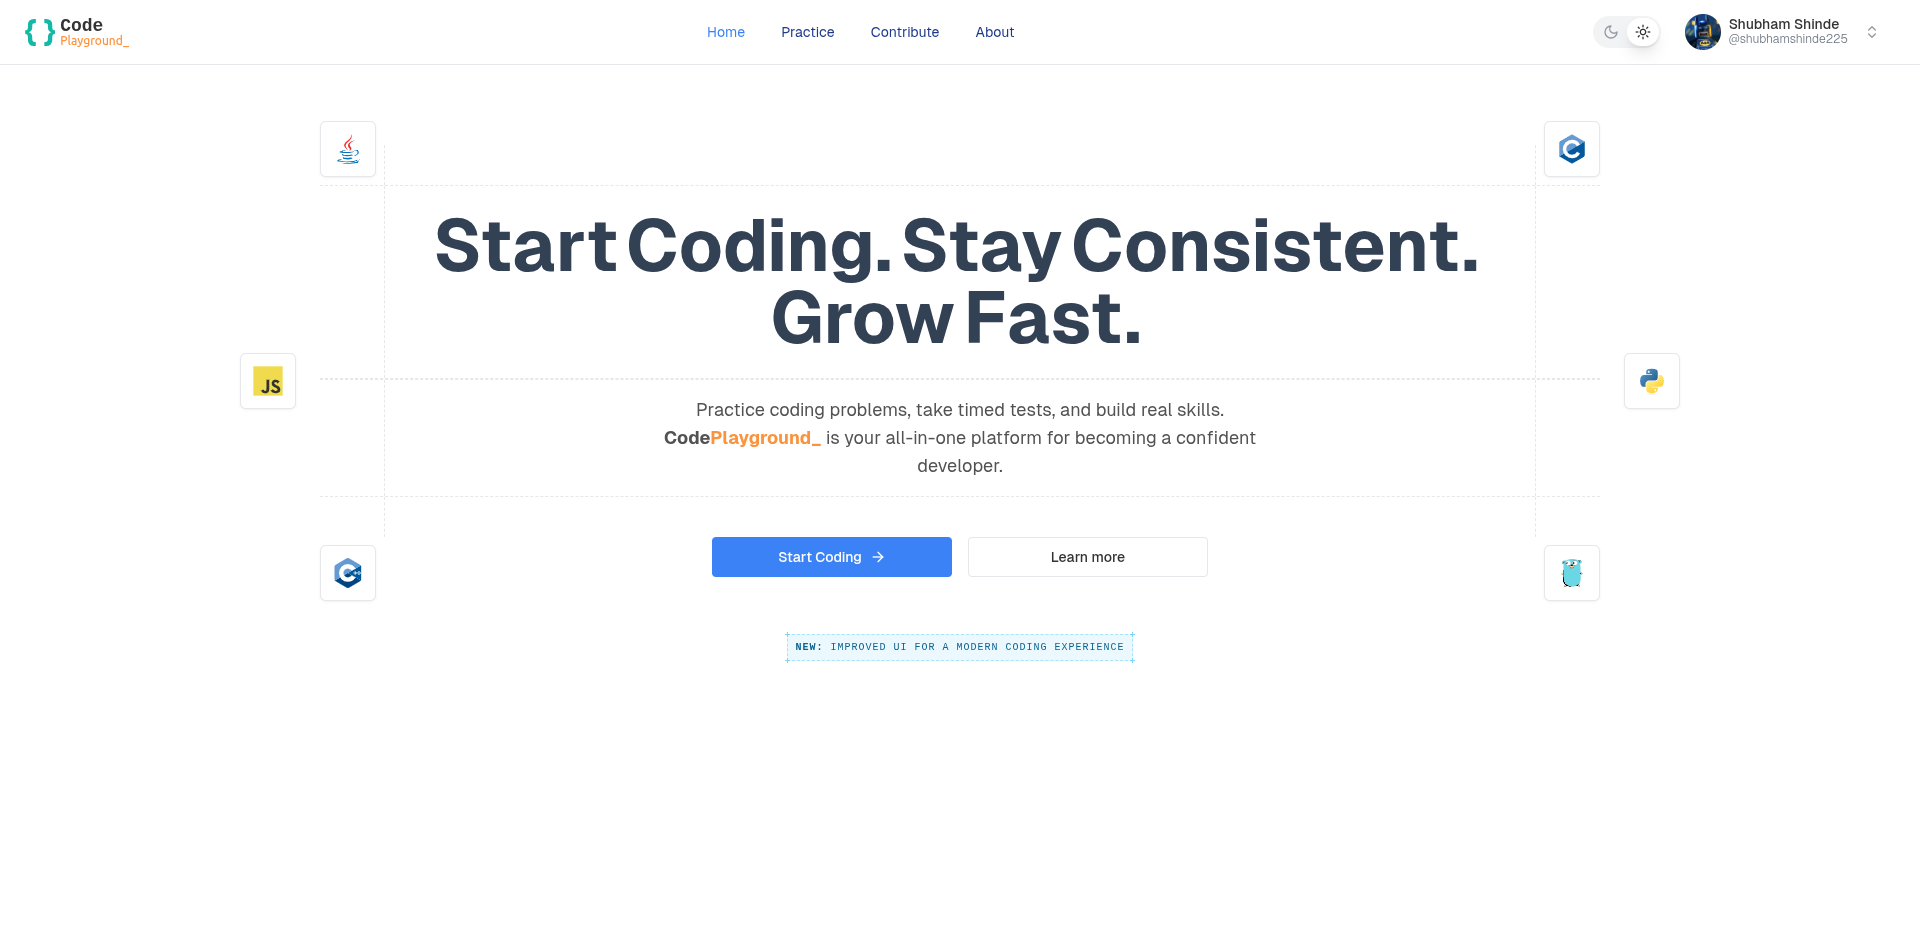
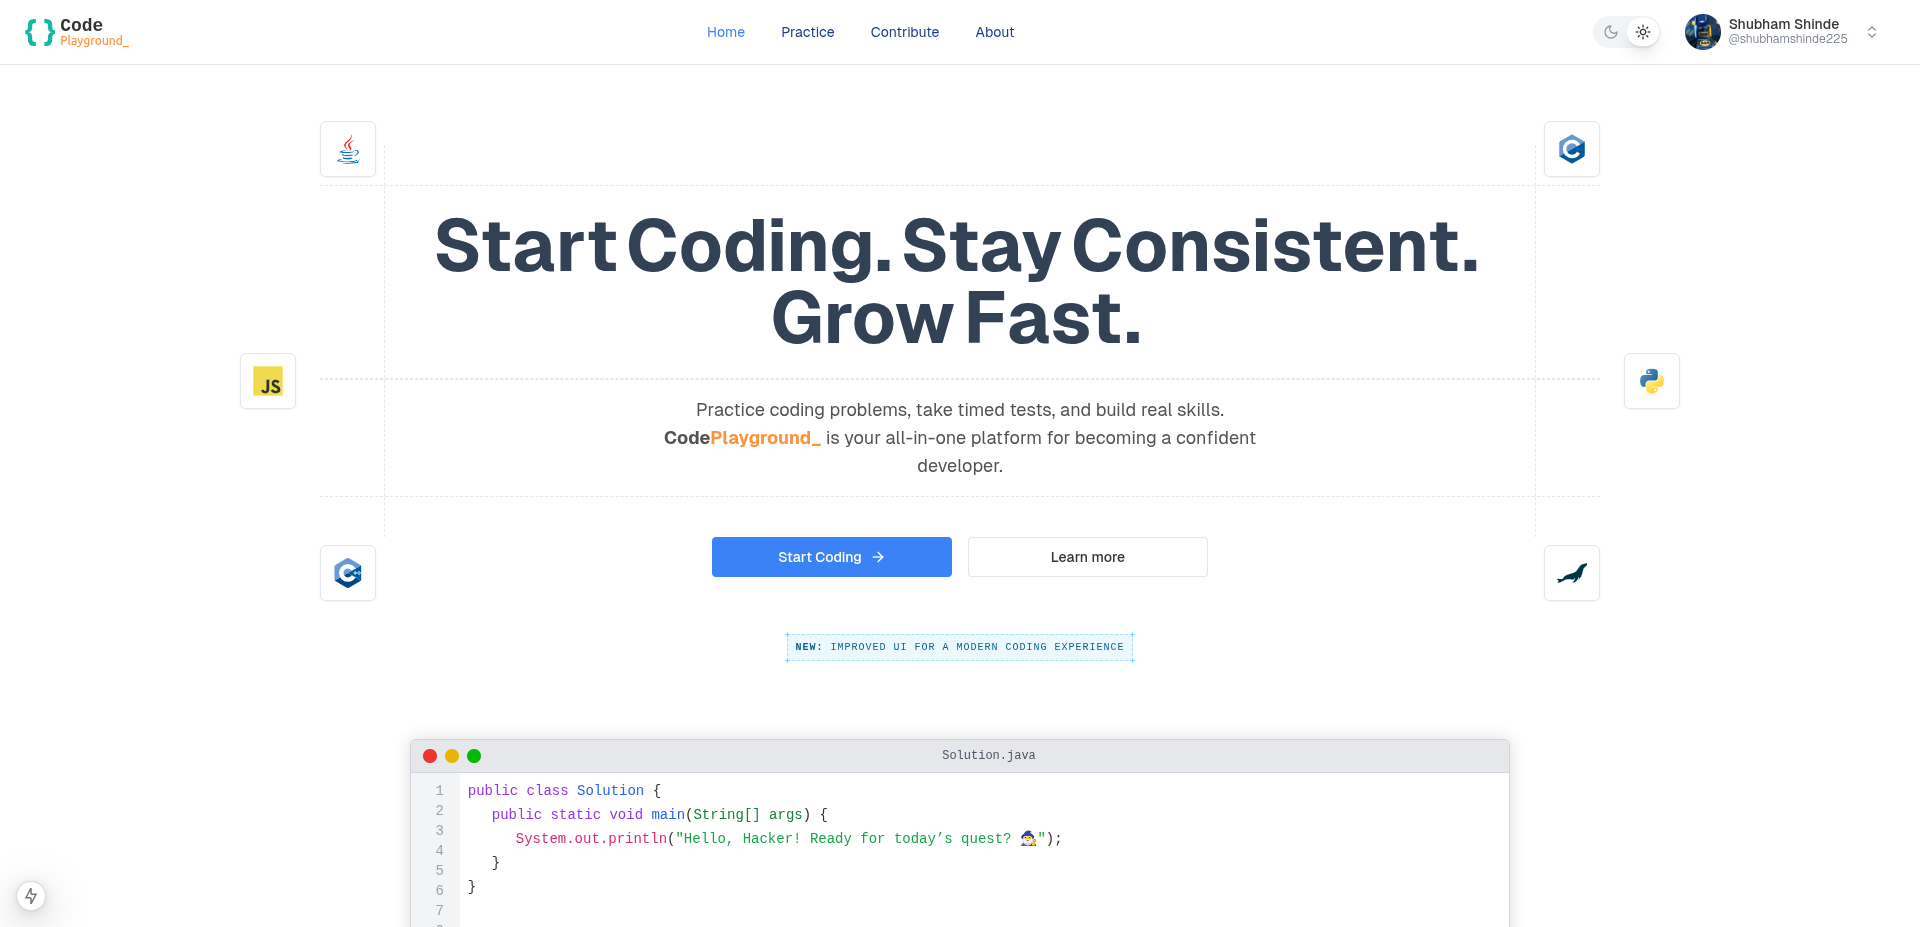
Minor hero page changes

Changed region(s): [[0.1875, 0.7853, 0.8125, 0.9061], [0.8125, 0.6041, 0.8438, 0.6343]]

diff --git a/src/components/animation-effects/editor-card.tsx b/src/components/animation-effects/editor-card.tsx
@@ -1,0 +1,54 @@
+"use client";
+
+export default function EditorCard() {
+  return (
+    <div
+      className="w-full max-w-[1100px] h-[300px] 
+      bg-white dark:bg-[#1e1e1e] 
+      border border-gray-300 dark:border-gray-700 
+      rounded-lg overflow-hidden m-5 
+      shadow-[0_0_15px_rgba(0,0,0,0.15)] dark:shadow-[0_0_20px_rgba(0,0,0,0.5)] 
+      font-mono text-sm"
+    >
+      {/* Header with traffic light controls */}
+      <div className="flex items-center justify-between bg-gray-200 dark:bg-[#2d2d2d] px-3 py-2 border-b border-gray-300 dark:border-gray-700">
+        <div className="flex gap-2">
+          <div className="w-3.5 h-3.5 rounded-full bg-[#e33] hover:brightness-125 cursor-pointer" />
+          <div className="w-3.5 h-3.5 rounded-full dark:bg-[#ee0] bg-yellow-500 hover:brightness-125 cursor-pointer" />
+          <div className="w-3.5 h-3.5 rounded-full bg-[#0b0] hover:brightness-125 cursor-pointer" />
+        </div>
+        <p className="text-xs text-gray-600 dark:text-gray-300">Solution.java</p>
+        <div />
+      </div>
+
+      {/* Code editor content */}
+      <div className="flex h-full">
+        {/* Line numbers */}
+        <div className="bg-gray-100 dark:bg-[#1b1b1b] text-gray-400 dark:text-gray-500 px-4 py-2 text-right select-none">
+          {Array.from({ length: 10 }, (_, i) => (
+            <p key={i}>{i + 1}</p>
+          ))}
+        </div>
+
+        {/* Java code */}
+        <div className="p-2 text-left space-y-1 overflow-auto">
+          <p>
+            <span className="text-purple-600 dark:text-purple-400">public class</span>{" "}
+            <span className="text-blue-600 dark:text-blue-400">Solution</span> {"{"}
+          </p>
+          <p className="ml-6">
+            <span className="text-purple-600 dark:text-purple-400">public static void</span>{" "}
+            <span className="text-blue-600 dark:text-blue-400">main</span>(
+            <span className="text-green-700 dark:text-green-400">String[] args</span>) {"{"}
+          </p>
+          <p className="ml-12">
+            <span className="text-pink-600 dark:text-pink-400">System.out.println</span>(
+            <span className="text-green-600 dark:text-green-400">&quot;Hello, Hacker! Ready for today’s quest? 🧙♂&quot;</span>);
+          </p>
+          <p className="ml-6">{"}"}</p>
+          <p>{"}"}</p>
+        </div>
+      </div>
+    </div>
+  );
+}

diff --git a/src/app/(root)/page.tsx b/src/app/(root)/page.tsx
@@ -15,6 +15,7 @@ import {
 import { Card } from "@/components/ui/card";
 import BorderBox from "@/components/border-box";
 import TerminalCard from "@/components/animation-effects/terminal-card";
+import EditorCard from "@/components/animation-effects/editor-card";
 
 export default function Home() {
   return (
@@ -154,9 +155,14 @@ export default function Home() {
         </motion.div>
       </div>
 
-      <div className="flex justify-center mt-1.5 p-0 h-52 overflow-clip">
-        <TerminalCard />
-      </div>
+      <motion.div
+        initial={{ opacity: 0, scale: 0.95 }}
+        animate={{ opacity: 1, scale: 1 }}
+        transition={{ duration: 0.6, ease: "easeOut", delay: 1.9 }}
+        className="flex justify-center mt-1.5 p-0 h-52 overflow-hidden"
+      >
+        <EditorCard />
+      </motion.div>
     </div>
   );
 }
